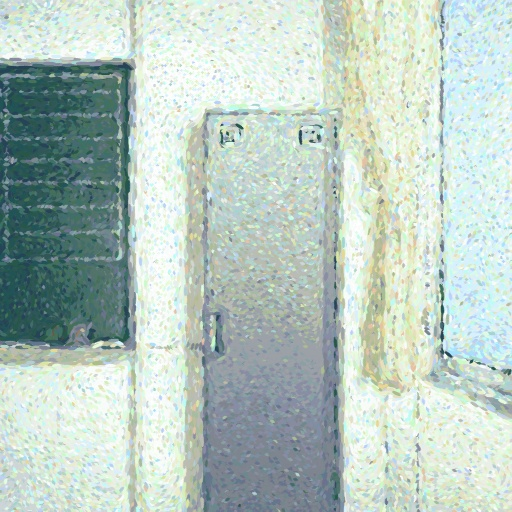
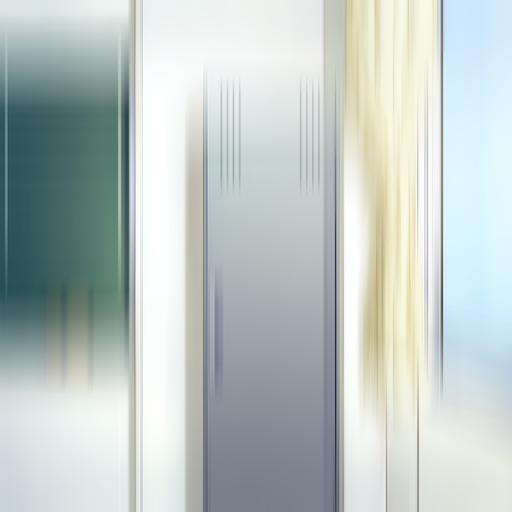
4th integration: Update textures, adjust parameters.

diff --git a/Samples/TypeScript/Demo/src/lappview.ts b/Samples/TypeScript/Demo/src/lappview.ts
@@ -131,8 +131,10 @@ export class LAppView {
     const live2DManager: LAppLive2DManager = LAppLive2DManager.getInstance();
 
     gl.useProgram(this._programId3);
+    // gl.useProgram(this._programId);
     if (this._backs[live2DManager._sceneIndex]) {
-      this._backs[live2DManager._sceneIndex].render(this._programId3, 0.0, 0.0, 0.0);
+      // this._backs[live2DManager._sceneIndex].render(this._programId3, 0.0, 0.0, 0.0);
+      this._backs[live2DManager._sceneIndex].render(this._programId3, config['bg_add_r'], config['bg_add_g'], config['bg_add_b']);
     }
 
     gl.useProgram(this._programId);
@@ -313,19 +315,23 @@ export class LAppView {
         "model_g": 1.0,
         "model_b": 1.0,
         "contrast": 1.0,
+        "saturate": 1.0,
+        "motion": 1,
       },
       // happy
       {
-        "bg_add_r": 0.1,
-        "bg_add_g": 0.1,
-        "bg_add_b": 0.1,
-        "model_r": 1.1,
-        "model_g": 1.1,
-        "model_b": 1.1,
+        "bg_add_r": 0.7,
+        "bg_add_g": 0.6,
+        "bg_add_b": 0.5,
+        "model_r": 1.8,
+        "model_g": 1.2,
+        "model_b": 1.0,  
         "contrast": 0.9,
+        "saturate": 2.0,
+        "motion": 1,
       },
 
-      // warm
+      // angry
       {
         "bg_add_r": 0.2,
         "bg_add_g": -0.3,
@@ -334,26 +340,32 @@ export class LAppView {
         "model_g": 0.5,
         "model_b": 0.5,
         "contrast": 0.8,
+        "saturate": 1.0,
+        "motion": 1,
       },
       // surprise
       {
-        "bg_add_r": -0.1,
-        "bg_add_g": -0.1,
-        "bg_add_b": -0.1,
-        "model_r": 0.9,
-        "model_g": 0.9,
-        "model_b": 0.9,
+        "bg_add_r": 0.1,
+        "bg_add_g": 0.1,
+        "bg_add_b": 0.1,
+        "model_r": 1.2,
+        "model_g": 1.2,
+        "model_b": 1.2,
         "contrast": 0.9,
+        "saturate": 0.5,
+        "motion": 2,
       },
-      // cold
+      // eye
       {
         "bg_add_r": -0.3,
         "bg_add_g": -0.3,
-        "bg_add_b": 0.2,
-        "model_r": 0.5,
-        "model_g": 0.5,
-        "model_b": 0.8,
+        "bg_add_b": 0.0,
+        "model_r": 0.9,
+        "model_g": 0.9,
+        "model_b": 1.0,
         "contrast": 0.8,
+        "saturate": 0.8,
+        "motion": 1,
       },
       
 

diff --git a/Samples/TypeScript/Demo/src/lappdelegate.ts b/Samples/TypeScript/Demo/src/lappdelegate.ts
@@ -244,11 +244,22 @@ export class LAppDelegate {
       }
       // this._view.tfmDuration
       this._view.render(cur_config);
+
+      // var samples = cur_config['motion'];
+      // var dy = 10 / samples;
+      // ctx.globalAlpha = 1/(samples/1.2);  // set the global alpha need to up the 
+      //                                   // val a bit or it gets to dark
+      // for(var i = 0; i < samples; i++){  // draw  the image for each sample
+      //     ctx.drawImage(gl.canvas, 0, i*dy); // moving it as we go
+      // }
+      // ctx.globalAlpha = 1;
+
       ctx.drawImage(gl.canvas, 0, 0);
 
 
       // ループのために再帰呼び出し
       var filter_str = 'contrast(' + cur_config['contrast'].toString() + ')';
+      filter_str += ' saturate(' + cur_config['saturate'].toString() + ')'
       ctx.filter = filter_str;
 
       // ループのために再帰呼び出し
